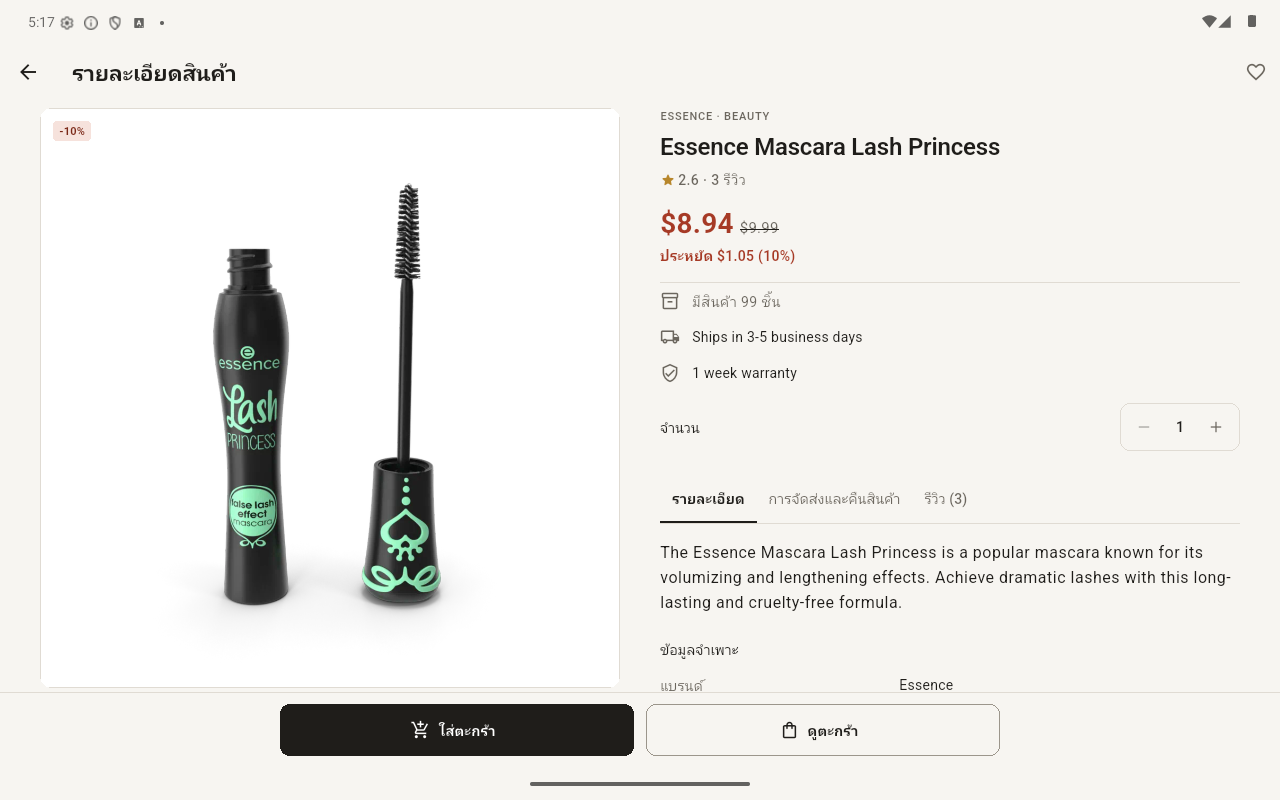
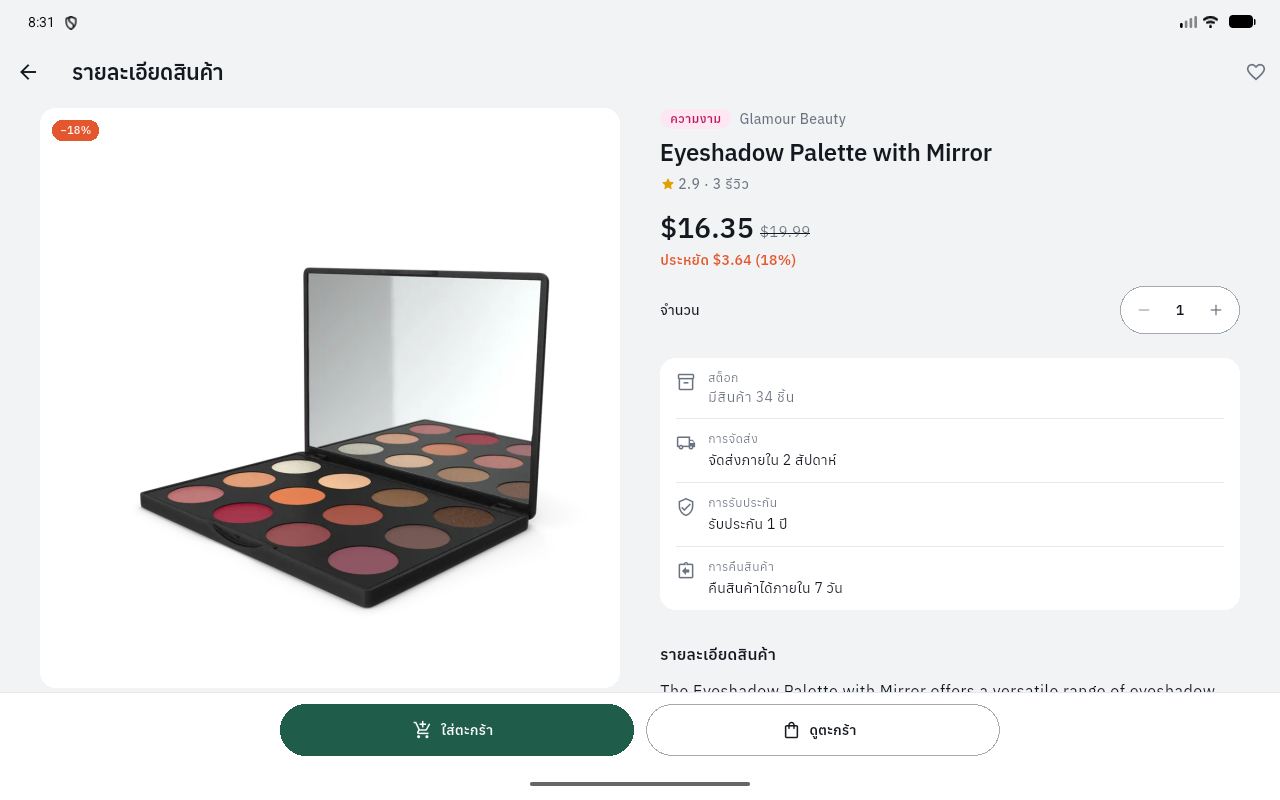
Refresh README and app screenshots
Document the updated design, Thai labels, category covers, and current verification details. Refresh the phone and tablet screenshots, including a new Categories screen.

diff --git a/README.md b/README.md
@@ -4,43 +4,54 @@ A Flutter shopping catalog backed by the real [DummyJSON products API](https://d
 It has a product list with search, category filters, sorting and pagination,
 a detailed product page, a wishlist and a cart saved on the device. State is managed with
 **Riverpod**, HTTP is done with **Dio**, and the layout adapts to phones and
-tablets. UI text and built-in Material/Cupertino controls use Thai; product data is shown as the API returns it.
+tablets. UI text and built-in Material/Cupertino controls use Thai. Category
+names and the API's shipping, warranty and return-policy phrases are
+translated to Thai; product titles, descriptions, brands and reviews are shown
+as the API returns them.
 
-| Catalog | Search | Product detail | Cart |
-|---|---|---|---|
-| ![](docs/screenshots/mobile-list.png) | ![](docs/screenshots/mobile-search.png) | ![](docs/screenshots/mobile-detail.png) | ![](docs/screenshots/mobile-cart.png) |
+| Catalog | Search | Categories | Product detail | Cart |
+|---|---|---|---|---|
+| ![](docs/screenshots/mobile-list.png) | ![](docs/screenshots/mobile-search.png) | ![](docs/screenshots/mobile-categories.png) | ![](docs/screenshots/mobile-detail.png) | ![](docs/screenshots/mobile-cart.png) |
 
 | Tablet portrait (4 columns) | Tablet landscape (two-pane detail) |
 |---|---|
 | ![](docs/screenshots/tablet-list.png) | ![](docs/screenshots/tablet-detail.png) |
 
 Screenshots were captured on 27 October 2026 from the Android debug build
-of application source `699d463`. Live API products, prices, stock and totals
-may change.
+of application source `00da610` on an Android 17 (API 37) emulator. Tablet
+sizes (800×1280 dp and 1280×800 dp) were set with `adb shell wm size/density`.
+Live API products, prices, stock and totals may change.
 
 ## Design
 
-The visual direction is a calm retail catalogue rather than a default
-Material demo. It is defined once in `lib/core/theme/app_theme.dart`:
+A clean, modern retail look rather than a default Material demo. It is
+defined once in `lib/core/theme/app_theme.dart`:
 
-- **Palette**: warm "paper" background, near-black "ink" for text and primary
-  buttons, and a single brick-red accent reserved for sale prices,
-  discounts and low stock. Light and dark themes share the same tokens.
-  `CatalogColors` (a `ThemeExtension`) holds the retail-specific colours.
-- **Surfaces**: flat. Cards, the gallery and lists use 1 px hairline borders
-  instead of shadows. Product photos sit whole (`BoxFit.contain`) on white
-  tiles instead of being cropped.
-- **Shape and spacing**: a small corner-radius scale (4 badge · 8 thumbnail ·
-  10 control · 12 card) and a 4/8/12/16/24 spacing scale (`AppSpace`,
+- **Palette**: a light grey page with white cards, fields, chips and bars;
+  near-black ink for text, selected chips, tab indicators and focus. Deep
+  green is reserved for buy actions (add to cart). A coral accent marks
+  discounts and savings; amber is used for ratings and orange for low stock.
+  Light and dark themes share the same tokens. `CatalogColors` (a
+  `ThemeExtension`) holds the retail-specific colours.
+- **Category colours**: `CategoryPalette` gives each category a tint and a
+  text colour from an 8-hue table, so products from different categories are
+  easy to tell apart (category name on cards, category pill on the detail
+  page, dots on the Categories tab). Reviewer avatars use the same palette.
+- **Surfaces**: flat white cards on the grey page, no shadows. Product photos
+  sit whole (`BoxFit.contain`) and are multiplied onto their tile so white
+  photo backgrounds blend in.
+- **Shape and spacing**: pill buttons, chips and badges; 12 dp thumbnails and
+  controls; 16 dp cards. Spacing uses a 4/8/12/16/24/32 scale (`AppSpace`,
   `AppRadius`).
-- **Type**:
-  - uppercase, letter-spaced category and brand labels;
-  - tabular figures for prices, quantities and totals;
-  - colour only where it carries meaning — discounted prices, and "only N
-    left" / out of stock. Normal stock text stays neutral.
-- **Components**: ink filter pills without checkmarks; text tabs with an
-  underline on the detail page; two-column spec tables with hairline rows;
-  cart lines separated by dividers instead of nested cards.
+- **Type**: [Anuphan](https://fonts.google.com/specimen/Anuphan), a Thai/Latin
+  variable font bundled in `assets/fonts/` (SIL Open Font License, see
+  `assets/fonts/anuphan-OFL.txt`). Prices, quantities and totals use tabular
+  figures. Colour appears only where it carries meaning: discounted prices,
+  "only N left" and out of stock. Normal stock text stays neutral.
+- **Components**: filter chips without checkmarks; a sort control that shows
+  the current order and changes its fill and border while open; detail
+  information in white cards and stacked sections instead of tabs; cart lines
+  grouped in one card with dividers.
 
 ## Requirements checklist
 
@@ -50,7 +61,7 @@ Material demo. It is defined once in `lib/core/theme/app_theme.dart`:
 | 2 | Tap opens product detail | `ProductDetailScreen.open(context, productId)` |
 | 3 | Riverpod | `productListProvider` (AsyncNotifier), `productDetailProvider` (FutureProvider.family), `catalogQueryProvider`, `categoriesProvider`, `cartProvider`, `wishlistProvider`, plus `dioProvider` / `productRepositoryProvider` |
 | 4 | Dio | `products/data/product_repository.dart` (`DioProductRepository`) |
-| 5 | Loading / Error / Empty | Skeleton grid on first load; separate states for Load More, Refresh, Detail and Categories; empty states that match search / category |
+| 5 | Loading / Error / Empty | Skeleton grid on first load; skeleton category covers; separate states for Load More, Refresh, Detail and Categories; empty states that match search / category |
 | 6 | Pull-to-refresh | `RefreshIndicator` + `AlwaysScrollableScrollPhysics` (works on empty and error states too) |
 | 7 | Pagination / Load More | "โหลดเพิ่มเติม" button with spinner, Retry, page counter and progress bar |
 | 8 | Mobile and tablet | Columns from real width (1–4), content max 1200 dp, navigation rail and two-pane detail from 840 dp |
@@ -59,26 +70,34 @@ Material demo. It is defined once in `lib/core/theme/app_theme.dart`:
 
 ### Extra features
 
-- **Search** with a 400 ms debounce (`/products/search`), **category chips**
-  and a **Categories tab** (`/products/categories`), and **sorting** by price,
-  rating or name (`sortBy` / `order`)
+- **Search** with a 400 ms debounce (`/products/search`), **category chips**,
+  and **sorting** by price, rating or name (`sortBy` / `order`)
+- **Categories tab** (`/products/categories`): categories grouped into
+  departments (beauty, women's and men's fashion, phones and computers, home
+  and kitchen, sports and travel; new API categories go under "หมวดอื่น ๆ").
+  Each tile shows a photo of one of its products, fetched with
+  `/products/category/{slug}?limit=1`. Covers load only once the tab is open,
+  show a skeleton until the photo arrives, and fall back to the category's
+  icon on its tint when there is no photo or the request fails.
   - Price sorting is explicitly labelled **ราคาปกติ** (list price), because
     the API sorts its `price` field before per-product discounts. Displayed
     sale prices can therefore differ from list-price order.
-- **Product cards**: discount badge, rating, sale and list price, stock level
-  (low stock / out of stock), wishlist heart and add-to-cart button
+- **Product cards**: discount badge, rating and coloured category name, sale
+  and list price, stock level (low stock / out of stock), wishlist heart and
+  a round add-to-cart button
 - **Product detail**: swipeable gallery with thumbnails and page counter;
-  brand, category, SKU, rating with review count, and warranty; savings;
-  stock and shipping; quantity picker; tabs for details/specs,
-  shipping & returns, and reviews; primary "ใส่ตะกร้า" and secondary
-  "ดูตะกร้า" (viewing the cart never adds more units)
+  category pill and brand, rating with review count; savings; quantity
+  picker; a card with stock, shipping, warranty and return policy; then
+  sections for the description, specifications (including SKU) and reviews;
+  primary "ใส่ตะกร้า" and secondary "ดูตะกร้า" (viewing the cart never adds
+  more units)
 - **Wishlist** and **cart** saved locally: quantity is limited by stock,
   totals use the discounted price, and the cart count shows as a badge on
   the tab
 - **Cart recovery**: removing a line shows "เลิกทำ" and restores its saved
   quantity and position. A later removal, clearing the cart, or re-adding the
   same product prevents an older Undo from overwriting the current cart.
-- **Readable cards**: two reserved title lines, 12/15/18 dp metadata/title/price
+- **Readable cards**: two reserved title lines, 12/14/16 dp metadata/title/price
   scale, full-width prices and a compact stock/actions row. Normal stock reads
   "มีสินค้า" on cards; low stock and the detail page retain exact quantities.
   Cart remove/quantity controls keep 48 dp touch targets with compact visuals.
@@ -88,8 +107,8 @@ Material demo. It is defined once in `lib/core/theme/app_theme.dart`:
 
 | Tool | Version |
 |---|---|
-| Flutter | 3.38.7 (stable) |
-| Dart | 3.10.7 |
+| Flutter | 3.41.0 (stable) |
+| Dart | 3.11.0 (`pubspec.yaml` requires ^3.10.7) |
 | flutter_riverpod / riverpod | 3.3.2 |
 | dio | 5.11.1 |
 | intl | 0.20.2 (pinned by Flutter localizations) |
@@ -140,6 +159,7 @@ lib/
   main.dart                       restore device storage, ProviderScope (automatic retry disabled)
   app.dart                        Thai MaterialApp, Material 3 light/dark theme
   core/
+    theme/app_theme.dart          colours, category palette, spacing, radii, Anuphan font
     errors/app_exception.dart     error types + user-facing (Thai) messages
     network/dio_provider.dart     shared Dio (10 s connect / 15 s receive timeout)
     riverpod/no_retry.dart        disables Riverpod 3 automatic retry
@@ -147,10 +167,10 @@ lib/
     storage/                      saved shopping collections and storage issue notice
   features/
     products/
-      data/                       Product, ProductCategory, CatalogQuery, ProductPage, ProductRepository
-      application/                catalog query, categories, product list (pagination), product detail
+      data/                       Product, ProductCategory, CatalogQuery, ProductPage, ProductRepository, Thai labels
+      application/                catalog query, categories and their covers, product list (pagination), product detail
       presentation/               catalog screen, detail screen, widgets (card, grid, labels, skeleton)
-    categories/presentation/      Categories tab
+    categories/presentation/      Categories tab (departments and cover tiles)
     wishlist/{application,presentation}/
     cart/{application,presentation}/
     home/{application,presentation}/  tab state + shell (bottom bar / navigation rail)
@@ -166,7 +186,8 @@ Flow: **UI → Riverpod providers → ProductRepository → Dio → REST API**
   Selecting a category from any screen cancels pending input, even when
   reselecting the same category; changing sort preserves pending input.
 - **Repository** picks the endpoint (`/products`, `/products/search`,
-  `/products/category/{slug}`), validates the JSON, and turns every failure
+  `/products/category/{slug}`; a category cover asks that endpoint for one
+  product's `thumbnail` and `images`), validates the JSON, and turns every failure
   into an `AppException` (`timeout`, `network`, `notFound`, `server`,
   `invalidData`, `cancelled`). Users never see raw exceptions.
 - **Device storage**: `main()` loads the cart and wishlist with
@@ -184,6 +205,11 @@ Flow: **UI → Riverpod providers → ProductRepository → Dio → REST API**
   Missing/failed images keep the existing placeholder; fades respect reduced
   motion. Disk caching is for native platforms; the package's web provider
   does not persist image files.
+- **Thai labels**: `products/data/thai_labels.dart` maps the 24 known
+  category slugs to Thai names and rewrites the API's fixed shipping,
+  warranty and return-policy phrases (for example "Ships in 3-5 business
+  days" → "จัดส่งภายใน 3–5 วันทำการ"). Unknown categories keep the API's name
+  and unrecognised phrases are shown unchanged.
 - Dio and the repository are provided through Riverpod, so tests replace them
   with `overrideWithValue`.
 
@@ -264,22 +290,24 @@ detail and cart screens at 360×800, 800×1280 and 1280×800 with text scale
 
 ## Testing
 
-An earlier full `flutter test` run passed all 97 tests, before the device
-persistence and latest UX changes. The exact tested commit was not recorded.
-The suite has not been rerun for the current application source (`699d463`).
-This documentation update does not claim a new full-suite result.
+On application source `00da610`, `flutter analyze` reports no issues and
+`flutter test` passes all 110 tests (Flutter 3.41.0).
 
-The existing tests are intended to cover:
+The tests cover:
 
 - **Model**: every field, sale price and discount rounding, defaults for
   missing fields, out of stock, image URL filtering, skipping malformed
   reviews, rejecting a bad id/title/price, category parsing.
+- **Thai labels**: category names with fallback; shipping ranges, single
+  amounts and overnight; warranty and return-policy amounts and special
+  cases; unrecognised text left unchanged.
 - **Repository** (fake Dio adapter):
   - endpoints and query parameters for list, search, category and sort;
   - cursor and `hasMore` from `total`; an empty page ends pagination;
   - malformed envelopes;
   - 404 → not found on detail, but server error on the list;
-  - timeout, network and invalid-JSON mapping; cancellation; categories.
+  - timeout, network and invalid-JSON mapping; cancellation; categories;
+  - category covers: thumbnail, first image or none, malformed responses.
 - **State**:
   - first page, empty result, append with duplicates, end of pagination;
   - Load More guard and retry at the same offset;
@@ -294,21 +322,23 @@ The existing tests are intended to cover:
     states, refresh error shown once;
   - Load More spinner and Retry;
   - debounced search and clearing it; category chips and sort; the
-    Categories tab;
+    Categories tab, covers loading only once it is open, and the cover
+    skeleton giving way to the fallback icon;
   - category selection (including the active category) cancels pending
     search; sorting keeps the draft; clearing or disposing cancels its timer;
   - add to cart from a card with the badge updating; removing from the cart;
     the wishlist;
   - opening the right product and returning to the same scroll position;
-    the detail tabs; quantity, Add to cart and opening the cart with the stock limit;
+    the detail sections and Thai policy text; quantity, Add to cart and opening the cart with the stock limit;
     out of stock; detail Retry; "not found" with Back;
   - the overflow matrix above.
 
 ### Verification record
 
-- **Current source (`699d463`)**: `flutter analyze` and the Android debug x64
-  build passed. Screens were manually inspected with the debug build on an
-  Android 16 / API 36 emulator, including phone and tablet layouts.
+- **Current source (`00da610`)**: `flutter analyze`, all 110 tests and the
+  Android debug x64 build passed. Catalog, search, Categories, product detail
+  and cart were manually inspected with the debug build on an Android 17 /
+  API 37 emulator against the live API, in phone and tablet layouts.
 - **Historical release check**: earlier project notes record a release-APK
   check against the live API on a Pixel 8 emulator (Android 16 / API 36):
   catalog, search "phone", product detail, add to cart, wishlist heart and
@@ -317,9 +347,8 @@ The existing tests are intended to cover:
   `adb shell wm size/density`. The checked commit and date were not recorded;
   this is not verification of the current release APK.
 - **Not tested**: iOS (no macOS/Xcode available), physical devices, and
-  switching the network off on the emulator mid-request. Existing unit and
-  widget tests simulate network failures; they have not been rerun for the
-  current source.
+  switching the network off on the emulator mid-request. Unit and widget
+  tests simulate network failures instead.
 
 ## Assumptions and limitations
 
